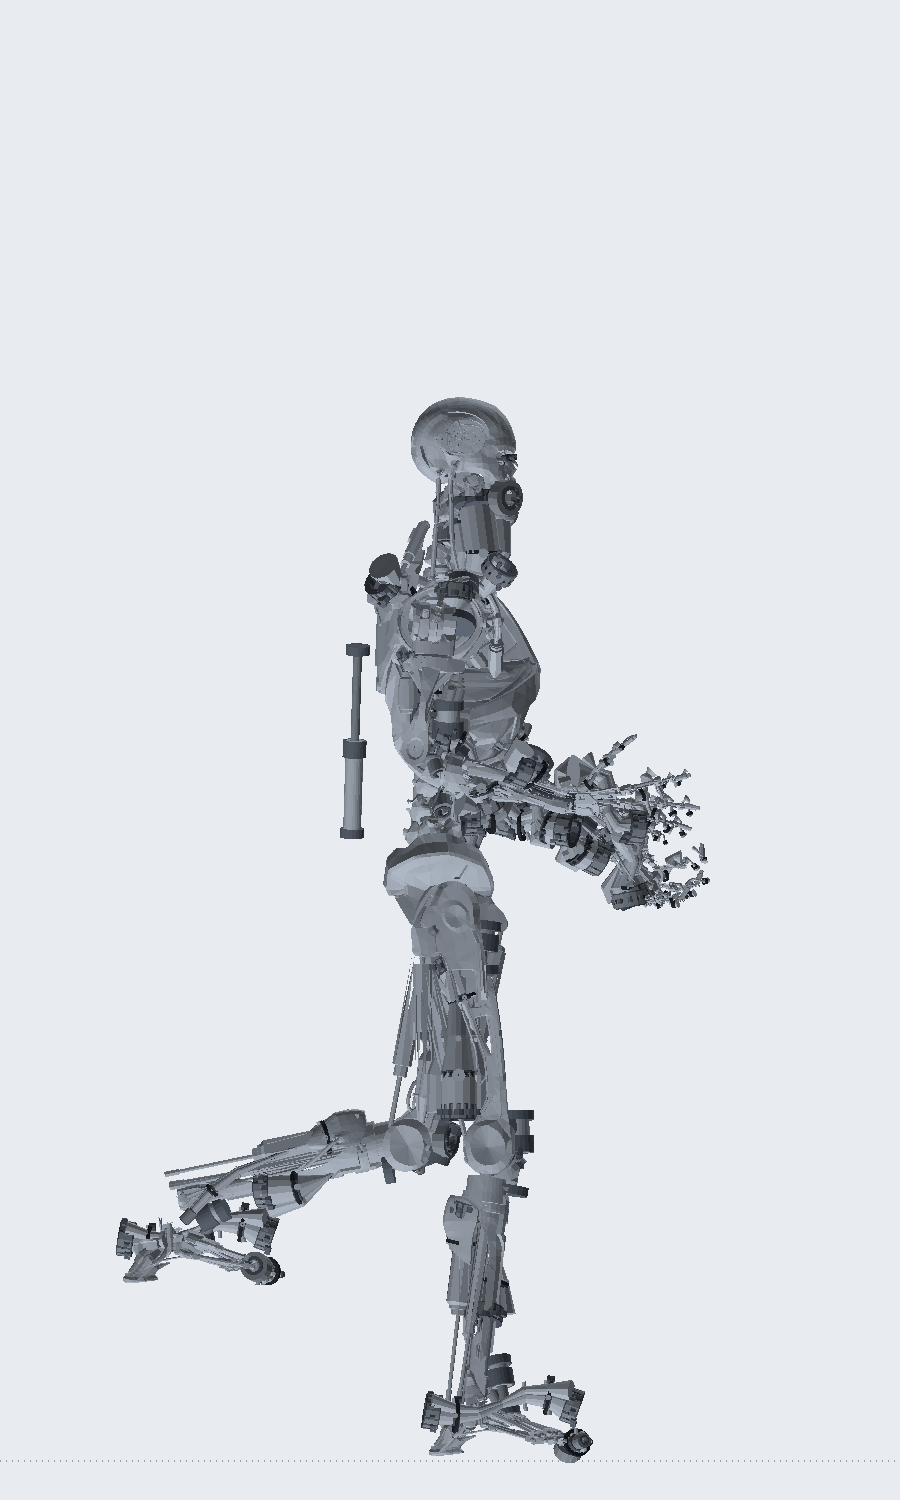
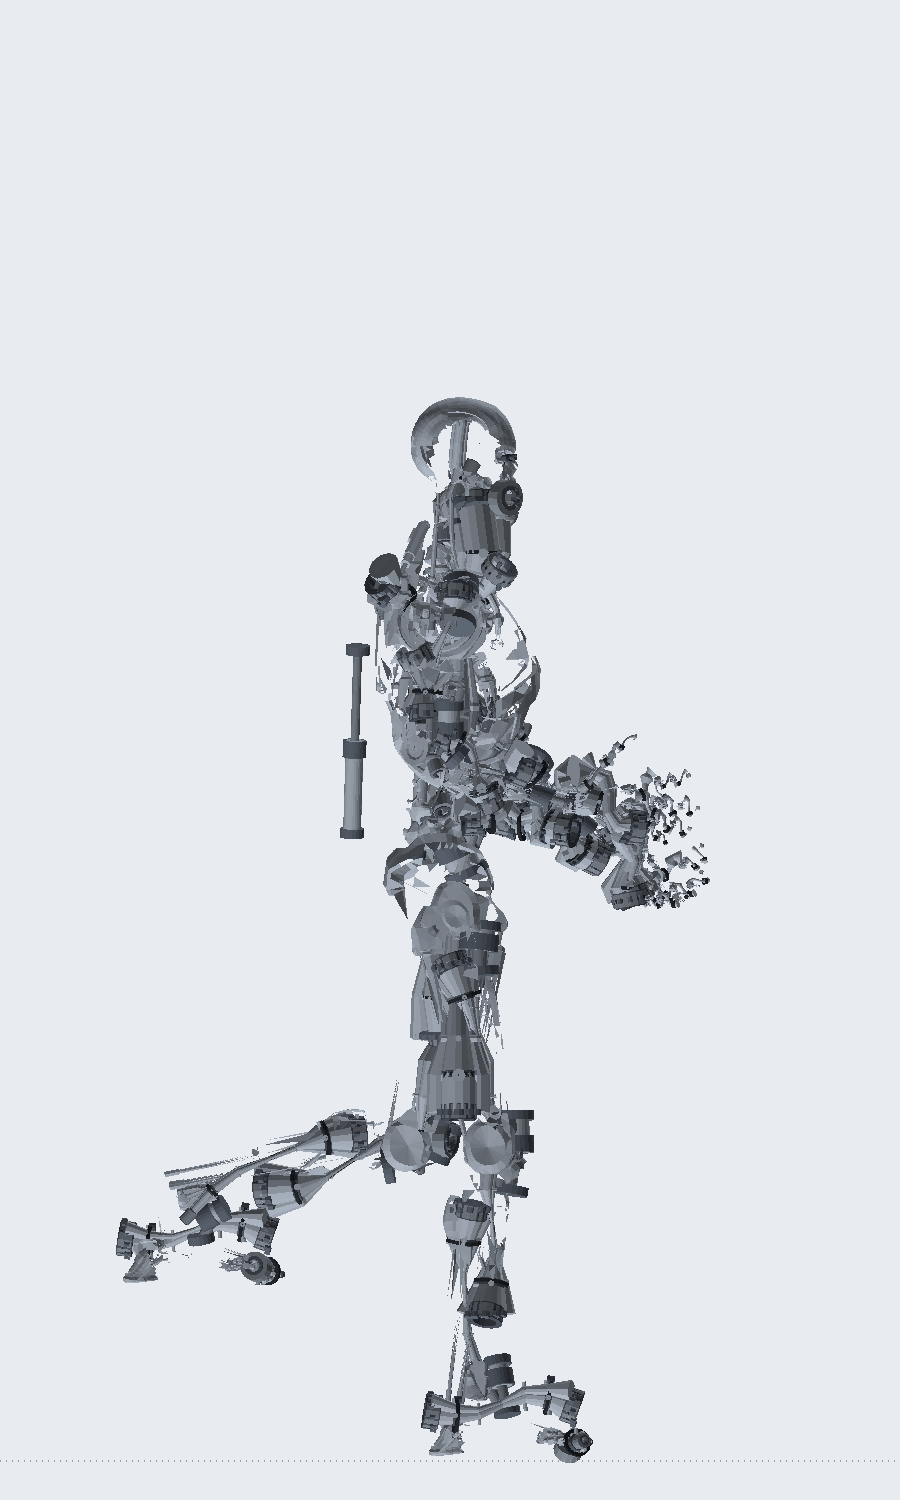
feat(t800): 护板改成局部覆盖 —— 机械件从敞口露出来
任务书要求'护板（局部覆盖，不全包——机械外露）'。上一版护板把整个表面盖死，
机械件全被挡住。

改法：分格后每格只保留外侧那部分面（按面心到长轴线的径向位置筛，
保留外圈 38%、内圈让开）-> 外轮廓仍与源网格吻合（外表面完整），
内圈敞开，轴承/骨架/软管/螺栓圈从敞口露出来。

效果：腿部能看到膝/踝轴承圈、沿腿走的承力筒、软管、螺栓圈；护板仍贴着骨头外形。

门禁：机械拆解版 2282 件：静态穿模 0（14062 全豁免）/ 16 帧扫掠 0（225091 全豁免）
                  悬空 0 / 液压行程 PASS；GLB 原型 195 件同样全绿
      vitest 125/125 全绿

diff --git a/src/three/parts/models/t800/mesh/plates.ts b/src/three/parts/models/t800/mesh/plates.ts
@@ -29,6 +29,7 @@ export function splitBoneIntoPlates(geometry: THREE.BufferGeometry): Plate[] {
   const index = geometry.index;
   if (!index) return [];
   const idx = index.array;
+  const idxAttr = index;
 
   // 长轴 = 骨段长度方向
   let axis = 0;
@@ -48,7 +49,7 @@ export function splitBoneIntoPlates(geometry: THREE.BufferGeometry): Plate[] {
   // 每个面归到一格（面心在轴向/周向的坐标）
   const cells = new Map<number, number[]>();
   for (let f = 0; f < idx.length; f += 3) {
-    const p = (i: number, k: number) => position.getComponent(index.getX(i), k);
+    const p = (i: number, k: number) => position.getComponent(idxAttr.getX(i), k);
     const t = (p(idx[f], axis) + p(idx[f + 1], axis) + p(idx[f + 2], axis)) / 3;
     const a1 = (axis + 1) % 3;
     const a2 = (axis + 2) % 3;
@@ -69,6 +70,14 @@ export function splitBoneIntoPlates(geometry: THREE.BufferGeometry): Plate[] {
   const plates: Plate[] = [];
   for (const faces of cells.values()) {
     if (faces.length < 2) continue;
+    // 「局部覆盖」：每格里只保留**外侧**那部分面（内圈让开），
+    // 于是护板只盖住骨头的外轮廓，内部机械器件从敞口露出来。
+    // 这样外形仍与源网格吻合（外表面完整），但不是"整面糊死"。
+    const cellR = faces.map((f) => faceRadius(f));
+    const rMax = Math.max(...cellR);
+    const keep = faces.filter((_, k) => cellR[k] >= rMax * 0.62);
+    if (keep.length < 2) continue;
+
     const pos: number[] = [];
     const out: number[] = [];
     const map = new Map<number, number>();
@@ -89,10 +98,10 @@ export function splitBoneIntoPlates(geometry: THREE.BufferGeometry): Plate[] {
       pos.push(px - comp[0] * s, py - comp[1] * s, pz - comp[2] * s);
       return id;
     };
-    for (const f of faces) {
-      const a = push(index.getX(f));
-      const b = push(index.getX(f + 1));
-      const c = push(index.getX(f + 2));
+    for (const f of keep) {
+      const a = push(idxAttr.getX(f));
+      const b = push(idxAttr.getX(f + 1));
+      const c = push(idxAttr.getX(f + 2));
       out.push(a, b, c);
     }
     const g = new THREE.BufferGeometry();
@@ -106,4 +115,29 @@ export function splitBoneIntoPlates(geometry: THREE.BufferGeometry): Plate[] {
     plates.push({ geometry: g, center });
   }
   return plates;
+
+  /** 面心到长轴线的距离（径向位置）。 */
+  function faceRadius(f: number): number {
+    const a1 = (axis + 1) % 3;
+    const a2 = (axis + 2) % 3;
+    const cx =
+      (position.getX(idxAttr.getX(f)) +
+        position.getX(idxAttr.getX(f + 1)) +
+        position.getX(idxAttr.getX(f + 2))) /
+      3;
+    const cy =
+      (position.getY(idxAttr.getX(f)) +
+        position.getY(idxAttr.getX(f + 1)) +
+        position.getY(idxAttr.getX(f + 2))) /
+      3;
+    const cz =
+      (position.getZ(idxAttr.getX(f)) +
+        position.getZ(idxAttr.getX(f + 1)) +
+        position.getZ(idxAttr.getX(f + 2))) /
+      3;
+    void cz;
+    const u = cx - (mn[a1] + mx[a1]) / 2;
+    const v = cy - (mn[a2] + mx[a2]) / 2;
+    return Math.hypot(u, v);
+  }
 }
